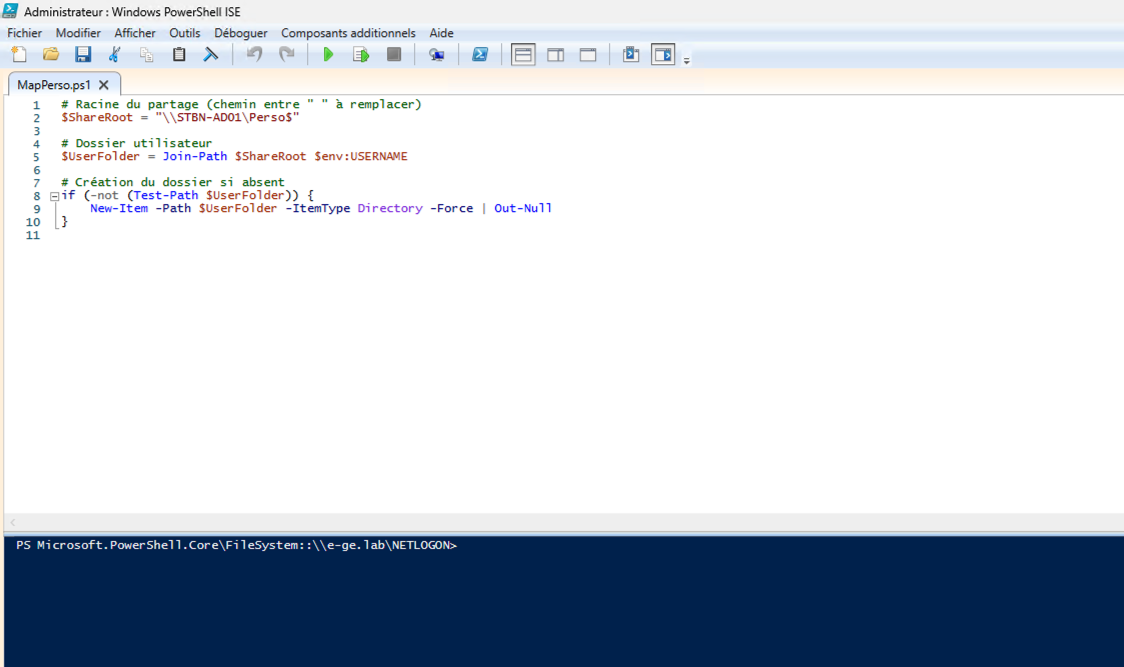
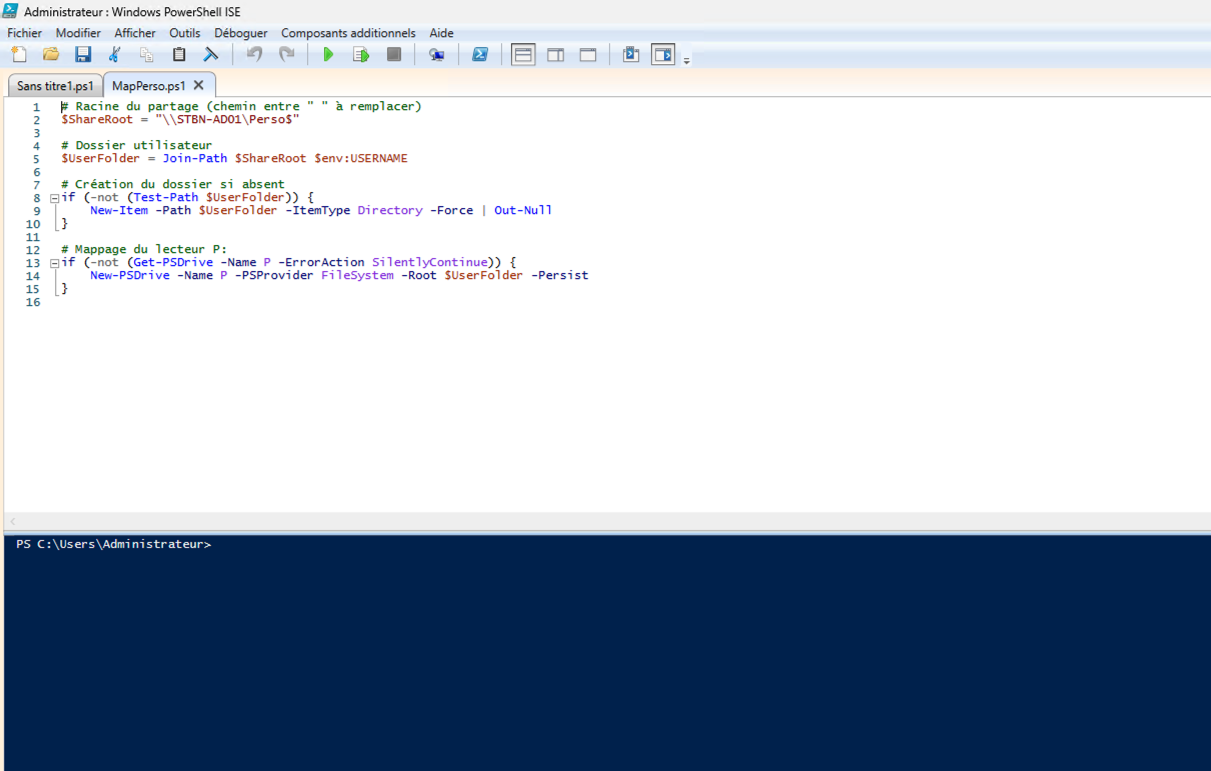
Initialisation du dépôt

Changed region(s): [[0.0, 0.0, 1.0, 0.3898], [0.0, 0.6597, 1.0, 0.8396]]

diff --git a/readme.md b/readme.md
@@ -150,6 +150,10 @@ $UserFolder = Join-Path $ShareRoot $env:USERNAME
 # Création du dossier si absent
 if (-not (Test-Path $UserFolder)) {
     New-Item -Path $UserFolder -ItemType Directory -Force | Out-Null
+
+if (-not (Get-PSDrive -Name P -ErrorAction SilentlyContinue)) {
+    New-PSDrive -Name P -PSProvider FileSystem -Root $UserFolder -Persist
+    
 }
 ```
 
